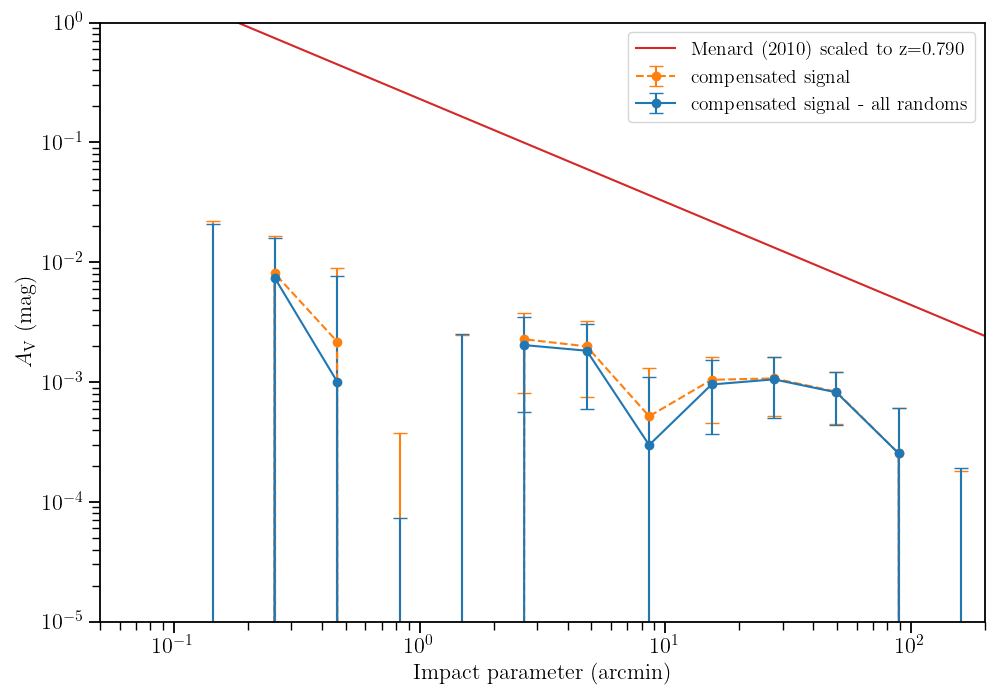
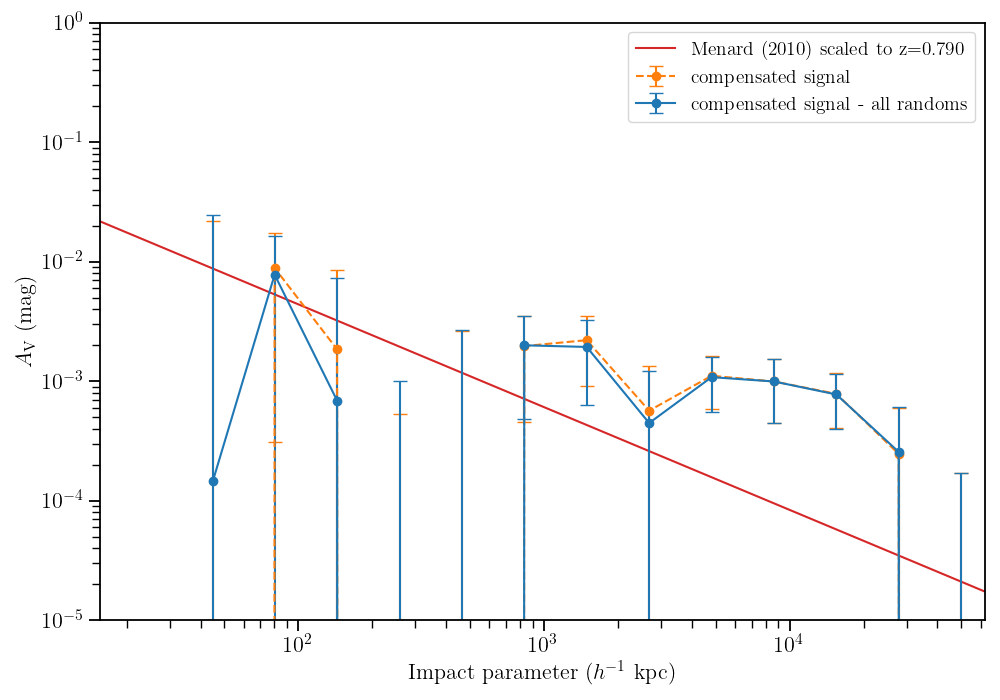
systematics check 3

diff --git a/src/plotter.py b/src/plotter.py
@@ -163,6 +163,7 @@ class DustPlotter(RCParamsMixin):
         fig.savefig(outplotn)
 
         try:
+            pdb.set_trace()
             fig, ax = plt.subplots(figsize=(10,7), tight_layout=True)
 
             ax.plot(theory_r, av, color='tab:red',
@@ -201,7 +202,6 @@ class DustPlotter(RCParamsMixin):
         kpc : if true, plot x-axis in kpc units (default)
         subsample : use special-purpose plotting software
         """
-
         if subsample == True:
             raise AttributeError('subsample plot is deprecated')
             #self._plot_corr_res(outplotn, kpc)
@@ -327,7 +327,8 @@ class OverlapPlotter(RCParamsMixin):
         if projection in ['mollweide', 'aitoff']:
             figsize=(11.5, 6)
         else:
-            figsize=(10, 7)
+            #figsize=(10, 7)
+            figsize=(11.5, 6)
 
         fig, ax = plt.subplots(1,1, figsize=figsize, tight_layout=True, \
                         subplot_kw=dict(projection=projection))

diff --git a/runner_scripts/make_dust_plot.py b/runner_scripts/make_dust_plot.py
@@ -97,6 +97,7 @@ def main(args):
         z_fg = mean_fg_z,
         z_theory = z_theory
     )
+
     plot.plot_res(outplotn=names.fig_output, kpc=correl_config['use_kpc'])
 
 if __name__ == '__main__':